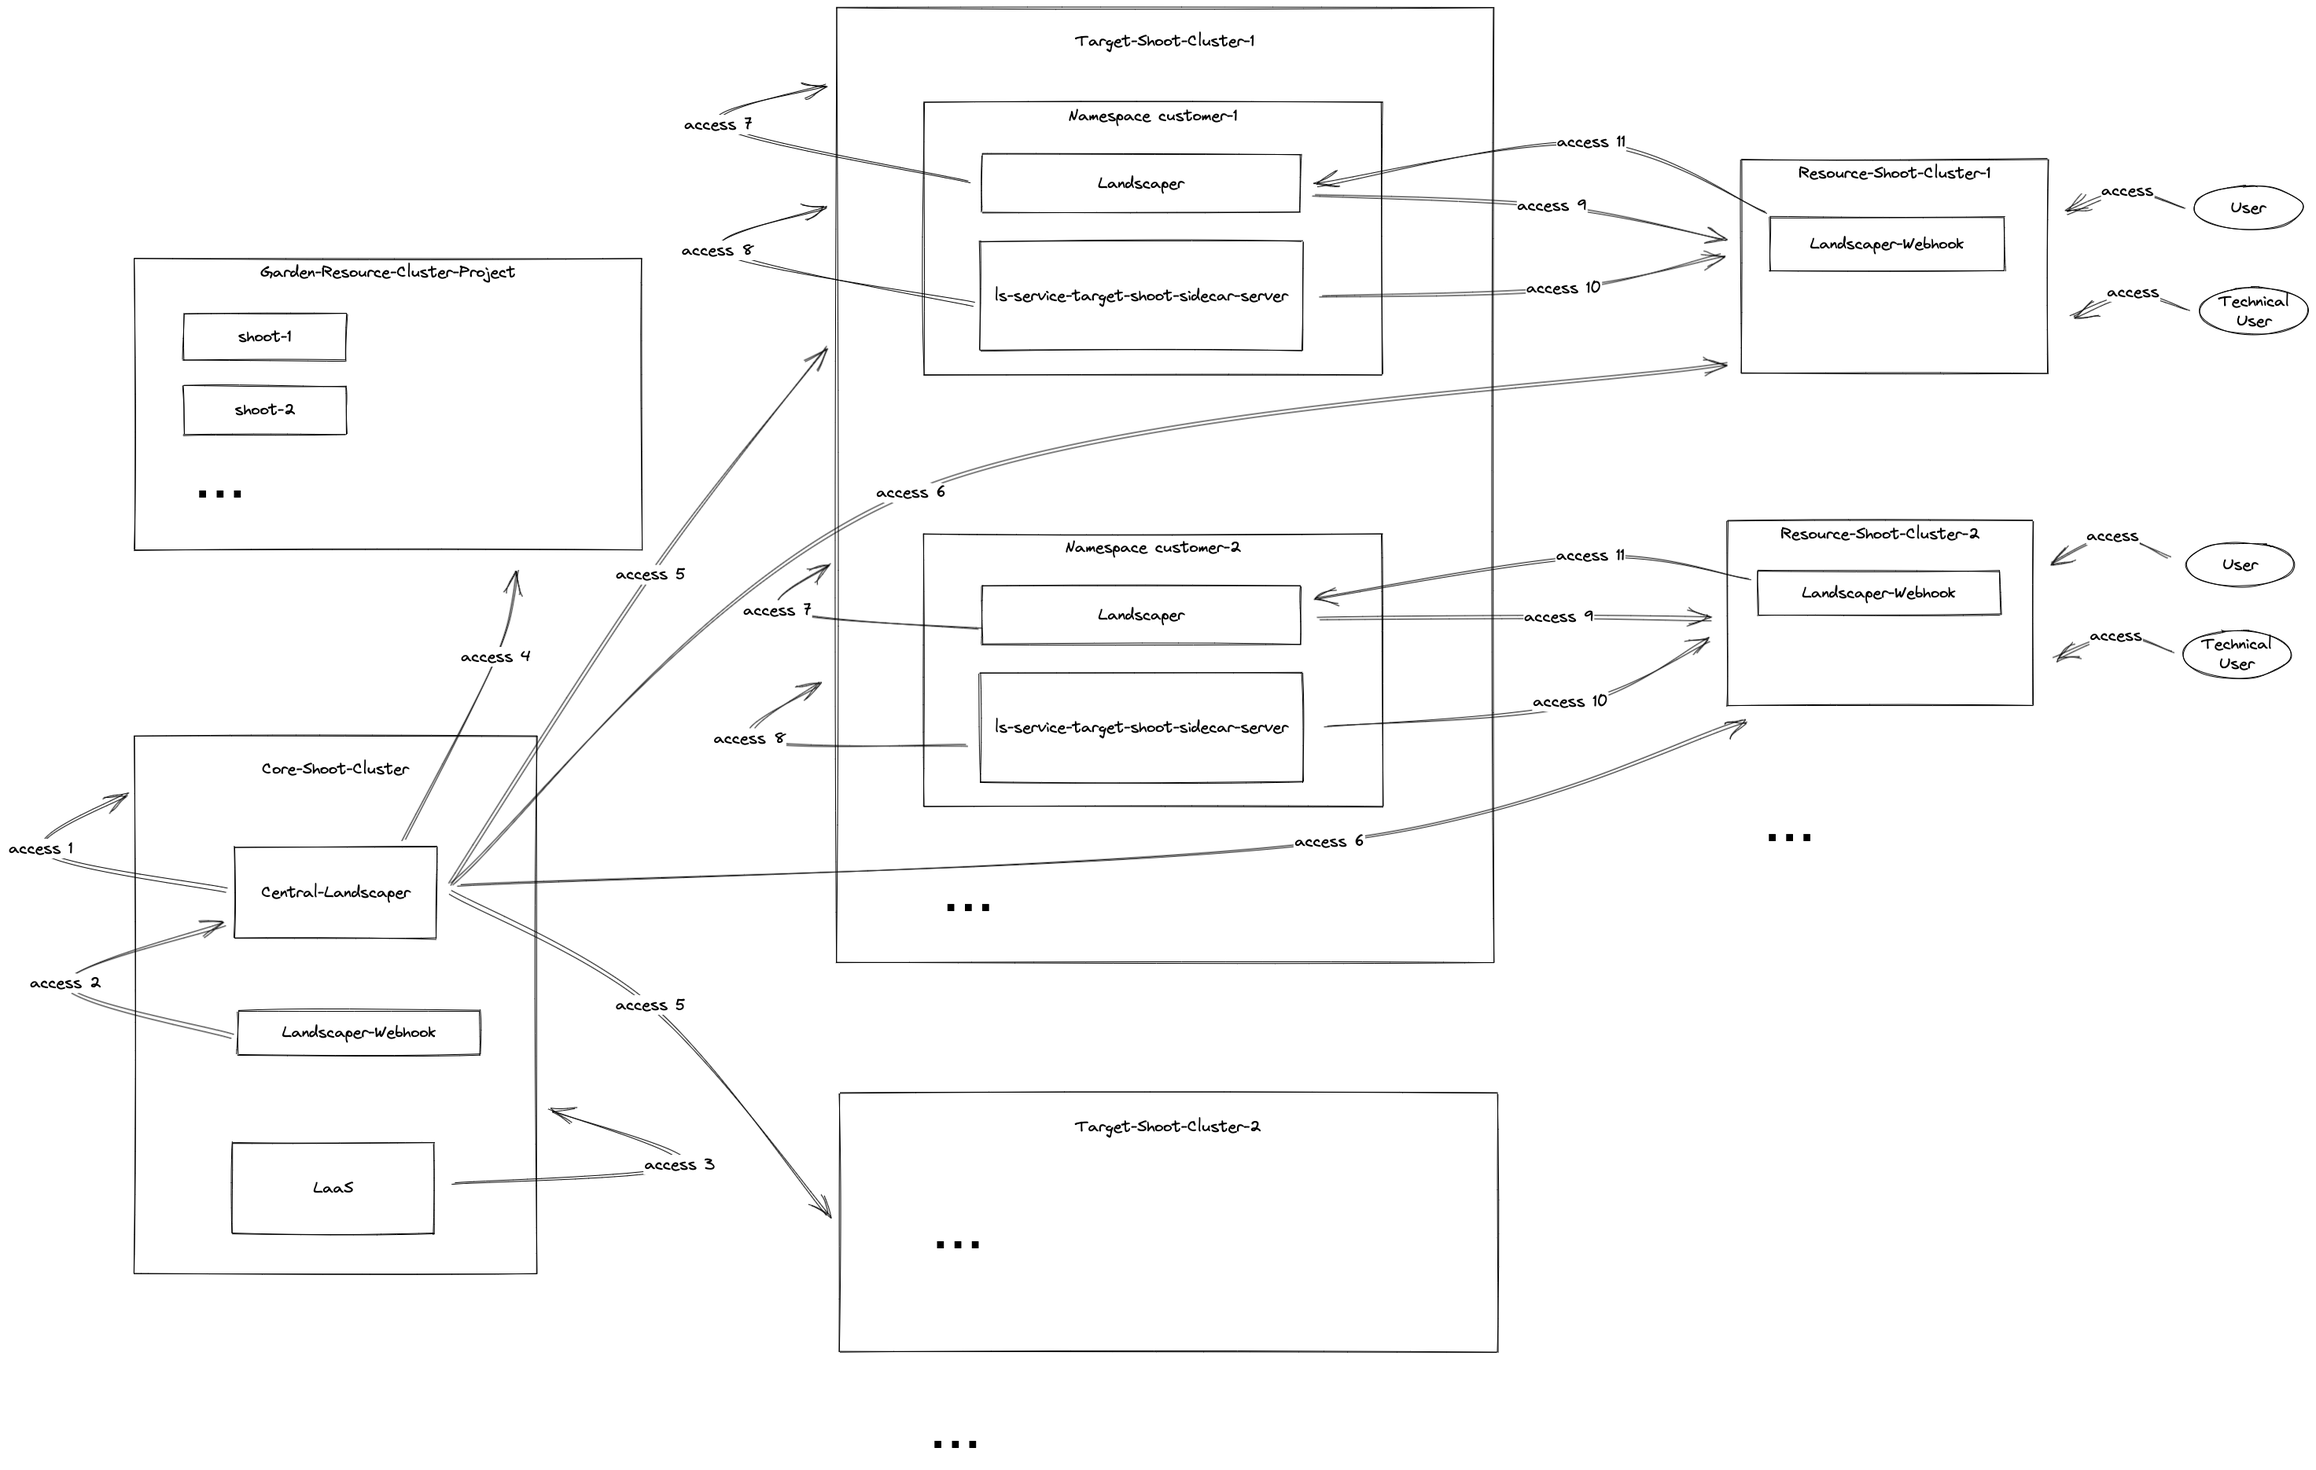
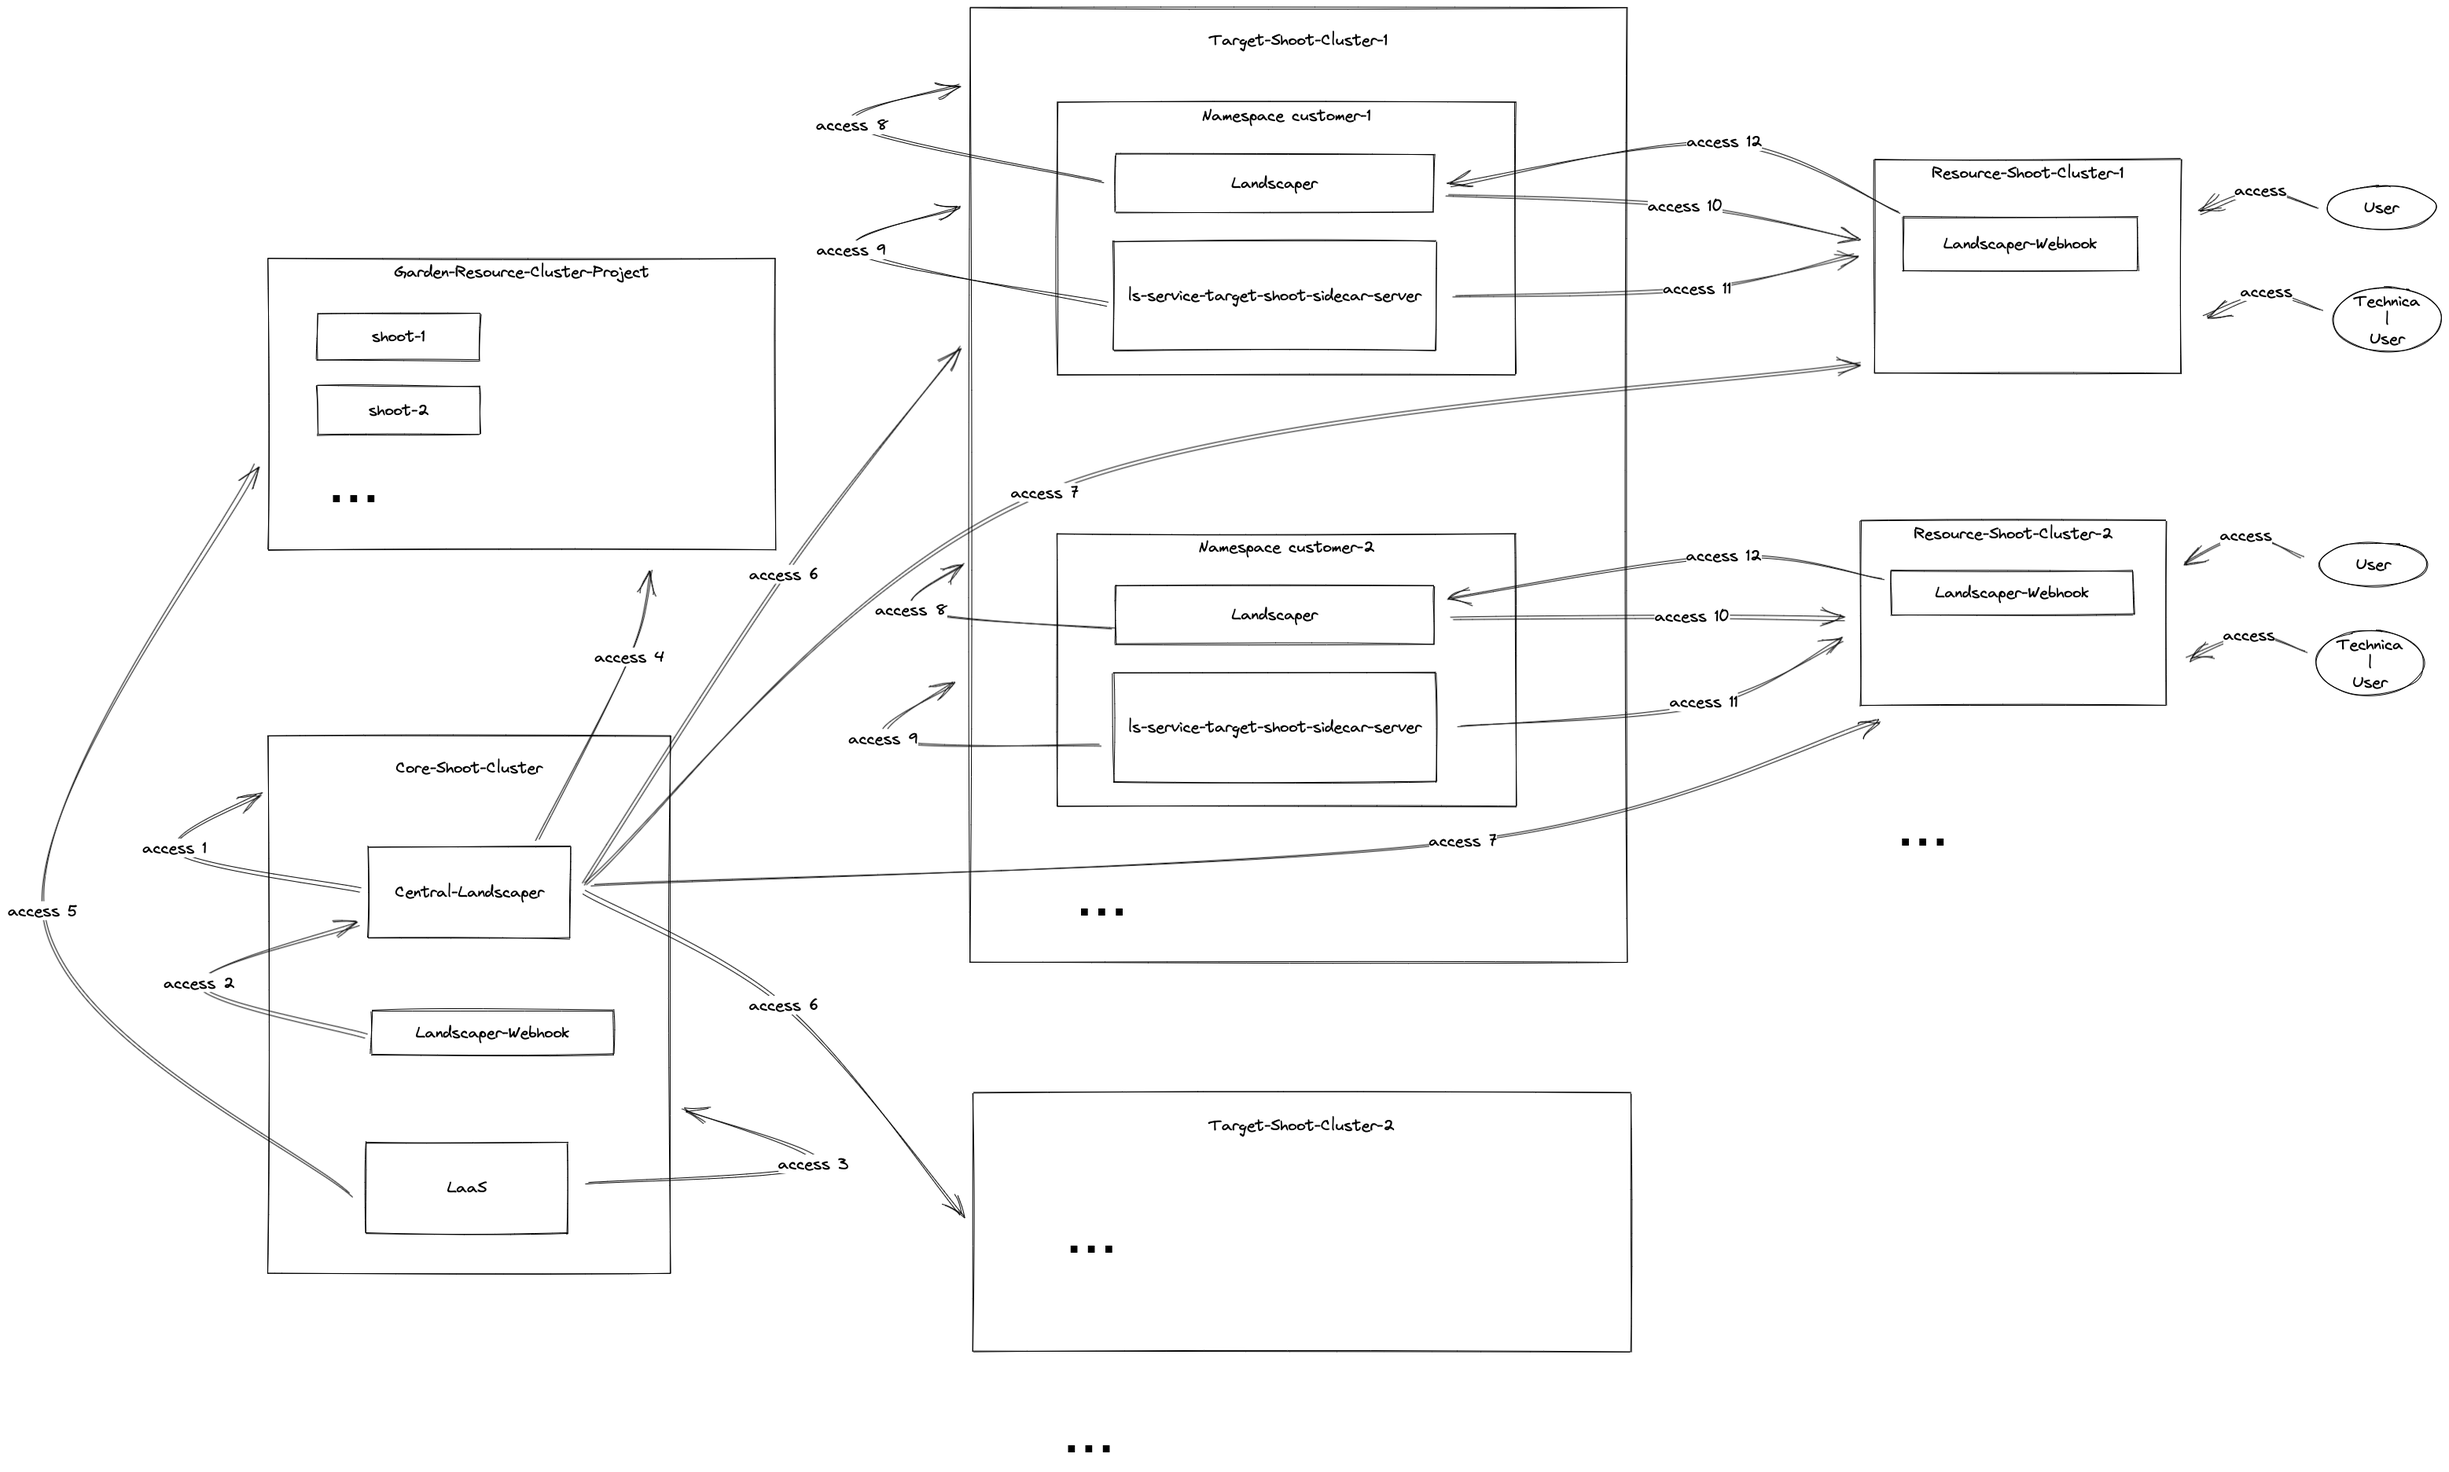
add communication channel

diff --git a/docs/architecture/security-concepts.md b/docs/architecture/security-concepts.md
@@ -36,29 +36,33 @@ In the following the different channels are described in more detail:
   fetches token in the namespace of the Garden-Resource-Cluster-Project located on the Garden cluster, via the API 
   server of the Garden Cluster.
 
-- access 5 (Pod to API server communication): The Central-Landscaper access and manipulates kubernetes objects to
+- access 5 (Pod to API server communication): The LaaS access shoot custom resources and the 
+- Garden-Resource-Cluster-Project located on the Garden cluster, via the API server of the Garden Cluster. It requires
+  the names of the existing shoot clusters to infer a new one.
+
+- access 6 (Pod to API server communication): The Central-Landscaper access and manipulates kubernetes objects to
   install and maintain the Landscaper and ls-service-target-shoot-sidecar-server components on the Target-Shoot-Clusters
   via their API servers.
 
-- access 6 (Pod to API server communication): The Central-Landscaper access and manipulates kubernetes objects to
+- access 7 (Pod to API server communication): The Central-Landscaper access and manipulates kubernetes objects to
   install service accounts and RBAC objects on the Resource-Shoot-Clusters via their API servers.
 
-- access 7 (Pod to API server communication): The Landscaper components on the Target-Shoot-Clusters access and 
+- access 8 (Pod to API server communication): The Landscaper components on the Target-Shoot-Clusters access and 
   manipulate kubernetes objects like Secrets, Service Accounts, Pods, etc. via their API servers.
 
-- access 8 (Pod to API server communication): The ls-service-target-shoot-sidecar-server components on the 
+- access 9 (Pod to API server communication): The ls-service-target-shoot-sidecar-server components on the 
   Target-Shoot-Clusters have the default access to kubernetes objects on their clusters via the corresponding API 
   servers.
 
-- access 9 (Pod to API server communication): The Landscaper components on the Target-Shoot-Clusters access and
+- access 10 (Pod to API server communication): The Landscaper components on the Target-Shoot-Clusters access and
   manipulate kubernetes objects like Installations, Executions, Secrets etc. on the Resource-Shoot-Clusters via their
   API servers.
 
-- access 10 (Pod to API server communication): The ls-service-target-shoot-sidecar-server components on the
+- access 11 (Pod to API server communication): The ls-service-target-shoot-sidecar-server components on the
   Target-Shoot-Clusters manipulate kubernetes objects like namespaces, CRDs, SubjectLists etc. on the 
   Resource-Shoot-Clusters via their API servers.
 
-- access 11 (API server/Admission Controller to component communication): The Landscaper-Webhooks on the 
+- access 12 (API server/Admission Controller to component communication): The Landscaper-Webhooks on the 
   Resource-Shoot-Clusters are dynamic webhooks controlling the creation of Landscaper Installation manifests on the 
   clusters. The calls endpoints of the corresponding Landscapers on the Target-Shoot-Clusters.
 
